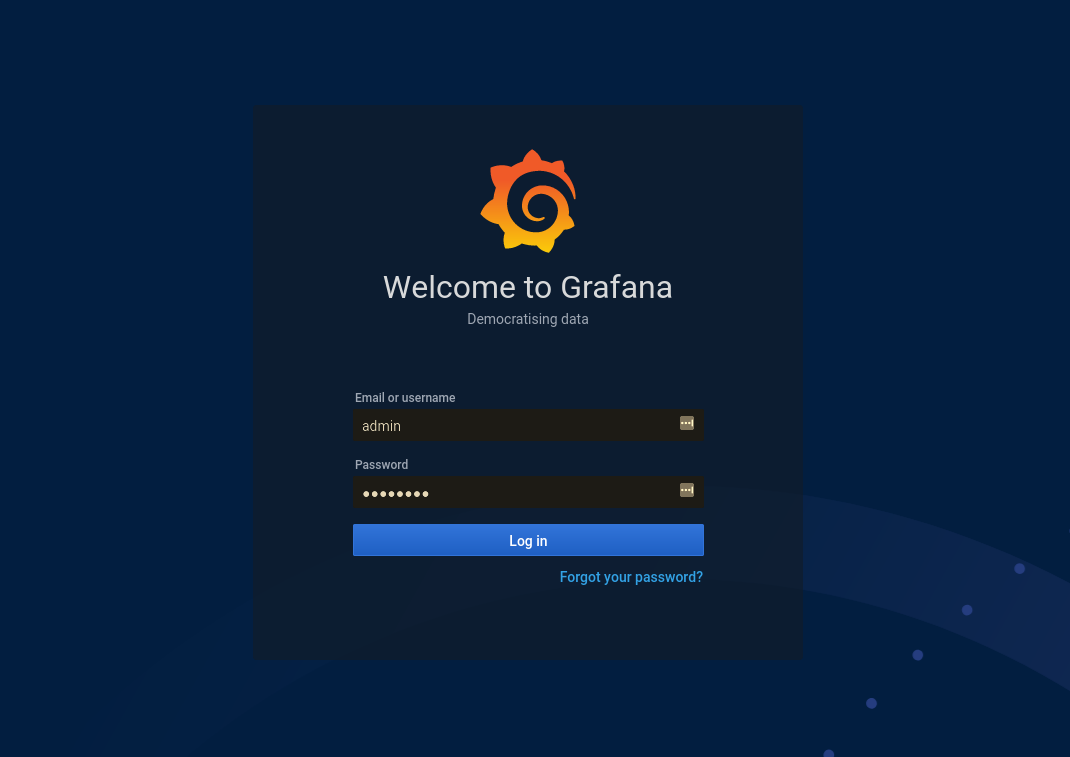
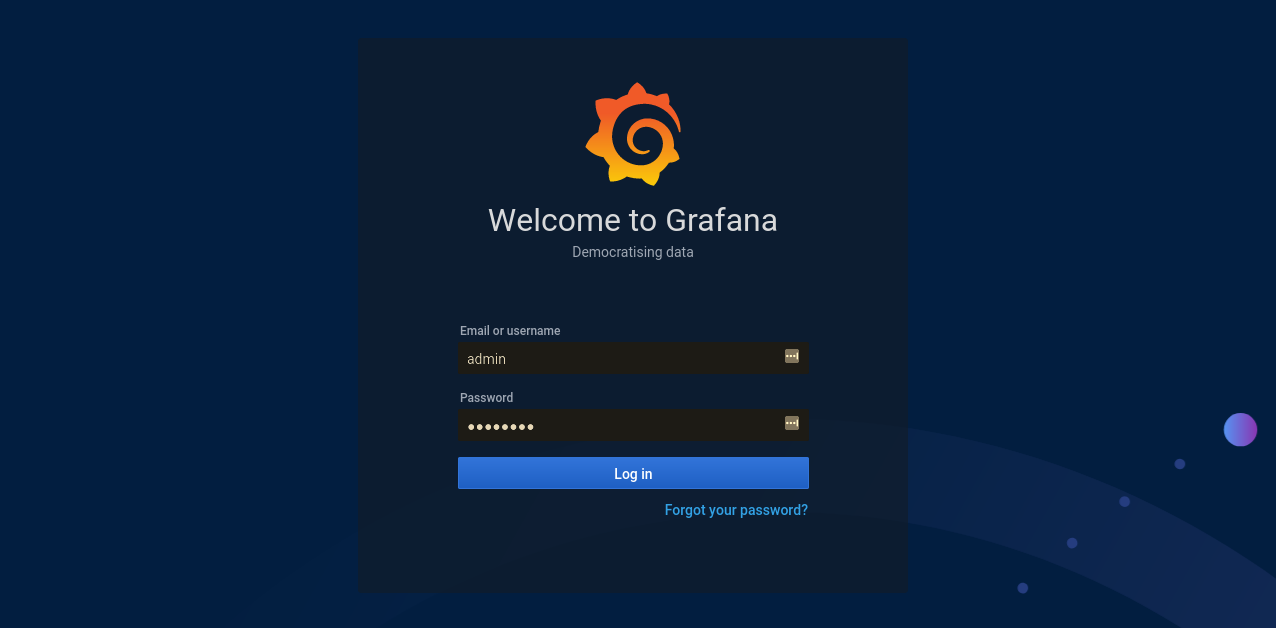
readme processing

diff --git a/README.md b/README.md
@@ -44,6 +44,6 @@ services:
 Inside a docker container, postgres is running on port `5432`, whereas the publicly exposed port
 outside the container is `5433`. 
 
-<img src="https://raw.githubusercontent.com/viktorsapozhok/docker-postgres-influxdb-grafana/master/docs/images/login.png">
+<img src="https://raw.githubusercontent.com/viktorsapozhok/docker-postgres-influxdb-grafana/master/docs/images/login.png" width="720">
    
 ## Data Sources
